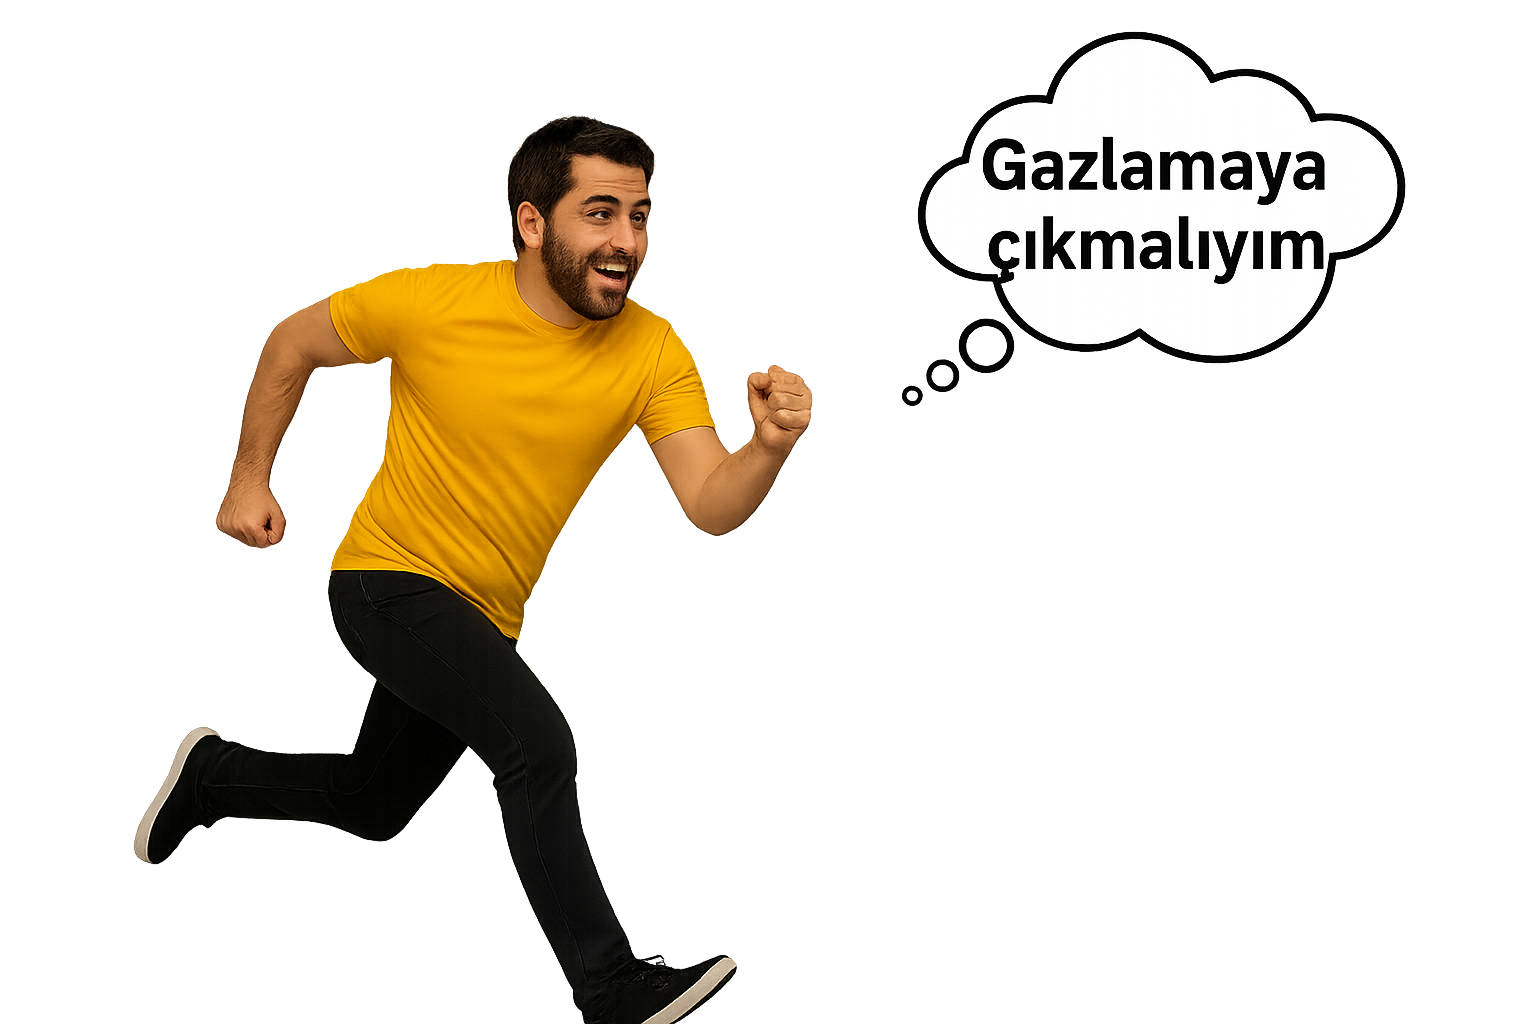
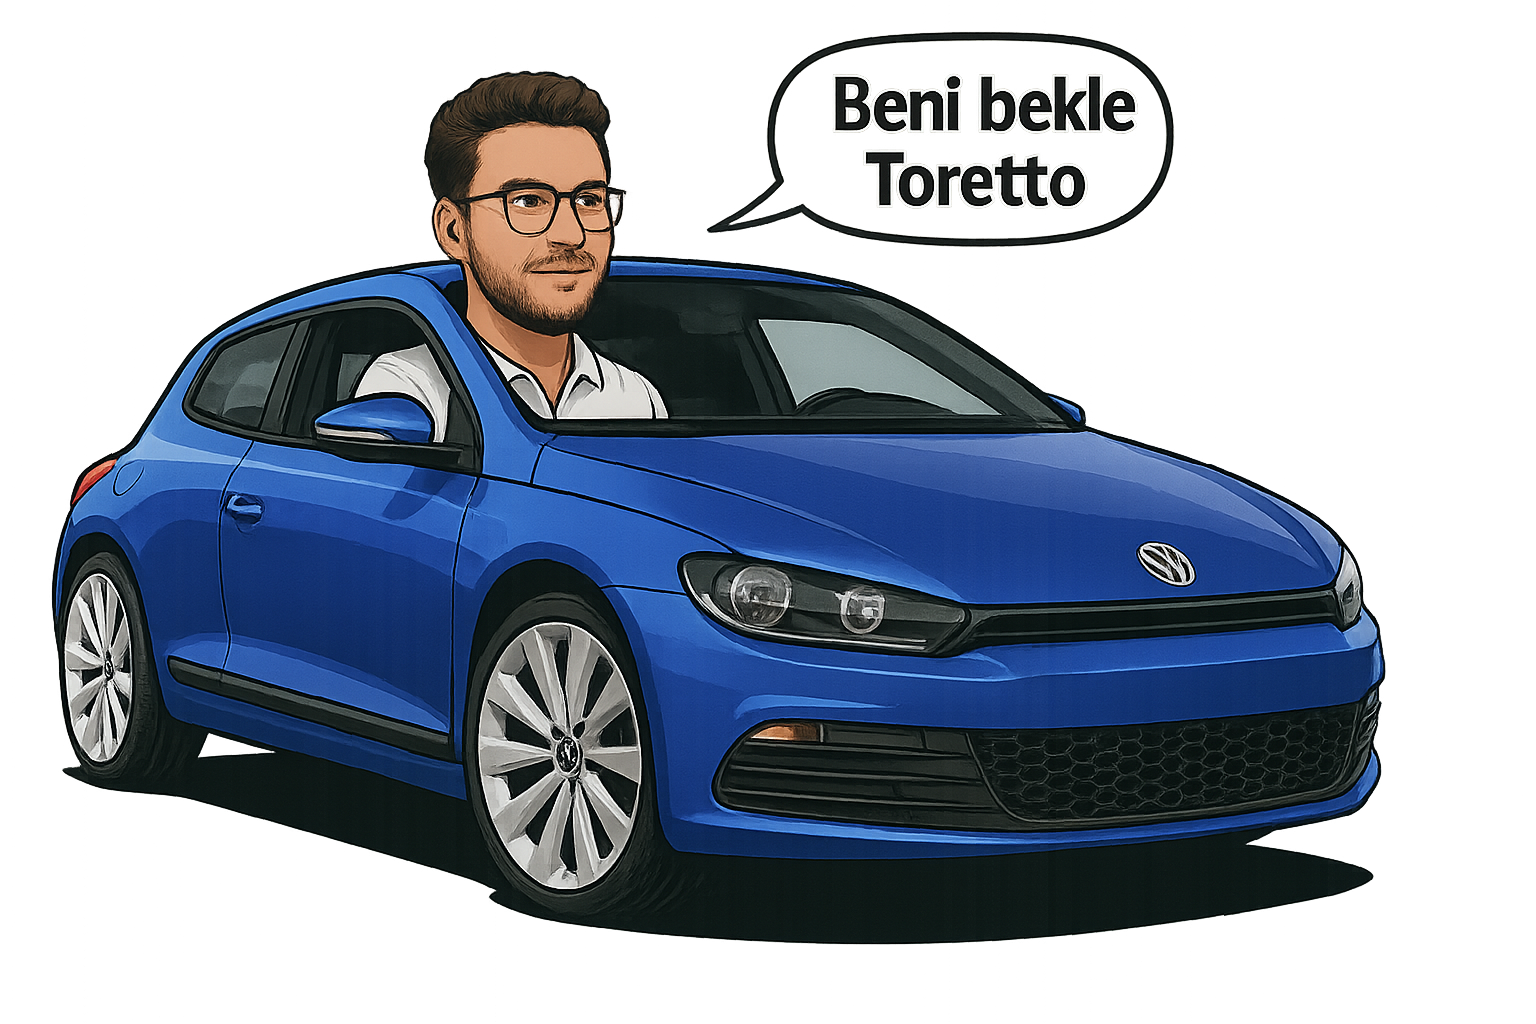
✨ Add character transitions and timing animations to FunnyPage
This update introduces a fully animated and interactive FunnyPage component, designed to deliver a humorous and engaging scene transition sequence using multiple characters.

🔧 Problem Solved:
- Burak and Kübra were previously moving in the wrong direction (right-to-left), instead of mimicking Furkan_Teacher3's left-to-right motion.
- Animation timing across characters was misaligned and overlapping at times.
- Previous updates inadvertently broke the initial button functionality and first animation.

✅ Solutions Applied:
- Introduced `characterPhase` state to handle sequential character phases.
- Defined separate animation classes for Burak and Kübra (`moveRightSlow`, `moveRightSlower`) to create slower transitions similar to Furkan_Teacher3.
- Adjusted CSS positions and keyframes to match the intended left-to-right animation flow.
- Preserved all initial logic: button interaction, Toretto cameo, blackout effect, and audio functionality remain untouched.

🎬 Timeline Flow:
1. Furkan_Teacher enters and exits
2. Blackout screen appears
3. Furkan_Teacher2 and Toretto scenes play
4. Furkan_Teacher3 slides out to the right
5. Burak enters with slower animation
6. Kübra enters with the slowest animation
7. Page navigates to /race after all animations complete

🛠 Technologies Used:
- React (`useState`, `useEffect`, `useRef`)
- CSS3 Animations with `@keyframes`
- React Router v6 for navigation
- HTML5 Audio for interactive sound
[…]

diff --git a/Week11Graduation-Project/src/pages/FunnyPage.tsx b/Week11Graduation-Project/src/pages/FunnyPage.tsx
@@ -1,4 +1,4 @@
-import React, { useRef, useState, useEffect } from "react";
+import React, { useEffect, useRef, useState } from "react";
 import { useNavigate } from "react-router-dom";
 import "../styles/pages/FunnyPage.css";
 
@@ -7,7 +7,10 @@ const FunnyPage = () => {
 
   const [startAnimation, setStartAnimation] = useState(false);
   const [blackout, setBlackout] = useState(false);
-  const [characterPhase, setCharacterPhase] = useState<"first" | "second" | "toretto" | "third">("first");
+  const [characterPhase, setCharacterPhase] = useState<
+    "first" | "second" | "toretto" | "third" | "burak" | "kubra"
+  >("first");
+
   const [showToretto, setShowToretto] = useState(false);
   const [startExitToretto, setStartExitToretto] = useState(false);
   const audioRef = useRef<HTMLAudioElement | null>(null);
@@ -15,9 +18,7 @@ const FunnyPage = () => {
 
   const handleStart = () => {
     setStartAnimation(true);
-    if (audioRef.current) {
-      audioRef.current.play();
-    }
+    audioRef.current?.play();
   };
 
   useEffect(() => {
@@ -30,23 +31,30 @@ const FunnyPage = () => {
         setBlackout(false);
         setCharacterPhase("second");
 
-        // Toretto sahnesi başlatılır
         setTimeout(() => {
           setShowToretto(true);
 
-          // 3 saniye sonra Toretto kaybolur ve karakter değişir
           setTimeout(() => {
             setStartExitToretto(true);
 
-            // Toretto çıkarken Furkan_Teacher3'e geçiş ve sağa kayma
             setTimeout(() => {
               setShowToretto(false);
               setCharacterPhase("third");
 
-              // Animasyonlar bittikten sonra yönlendirme
+              // Furkan_Teacher3 bitince Burak başlar
               setTimeout(() => {
-                navigate("/race"); // Doğru sayfa yolu "/race"
-              }, 1500); // Furkan_Teacher3 animasyonunun tamamlanma süresi
+                setCharacterPhase("burak");
+
+                // Burak bitince Kübra başlar
+                setTimeout(() => {
+                  setCharacterPhase("kubra");
+
+                  // Kübra bitince sayfa yönlendirmesi
+                  setTimeout(() => {
+                    navigate("/race");
+                  }, 4000); // Kübra çıkışı süresi
+                }, 4000); // Burak çıkışı süresi
+              }, 3500); // Furkan_Teacher3 çıkışı sonrası bekleme
             }, 1000);
           }, 3000);
         }, 2000);
@@ -58,15 +66,13 @@ const FunnyPage = () => {
     }
 
     return () => {
-      if (image) {
-        image.removeEventListener("transitionend", handleTransitionEnd);
-      }
+      image?.removeEventListener("transitionend", handleTransitionEnd);
     };
   }, [navigate]);
 
   return (
     <div className="funny-page light">
-      {blackout && <div className="blackout-screen"></div>}
+      {blackout && <div className="blackout-screen" />}
 
       <div className="intro-animation">
         {characterPhase === "first" && (
@@ -91,6 +97,22 @@ const FunnyPage = () => {
             src="/assets/images/Furkan_Teacher3.png"
             alt="Furkan Teacher 3"
             className="moving-image3"
+          />
+        )}
+
+        {characterPhase === "burak" && (
+          <img
+            src="/assets/images/Burak2.png"
+            alt="Burak"
+            className="burak-animation"
+          />
+        )}
+
+        {characterPhase === "kubra" && (
+          <img
+            src="/assets/images/Kubra.png"
+            alt="Kübra"
+            className="kubra-animation"
           />
         )}
 

diff --git a/Week11Graduation-Project/src/styles/pages/FunnyPage.css b/Week11Graduation-Project/src/styles/pages/FunnyPage.css
@@ -1,20 +1,16 @@
-/* 🔲 Sayfa genel yapısı */
 .funny-page {
   width: 100%;
   height: 100vh;
   overflow: hidden;
   position: relative;
   background-color: #ffffff;
-  color: white;
-}
-
-/* 🌞 Beyaz temada metin görünmesin (isteğe bağlı) */
-.funny-page.light {
-  background-color: #ffffff;
   color: #ffffff;
 }
 
-/* 🎬 Giriş animasyonu ve buton konumu */
+.funny-page.light {
+  background-color: #ffffff;
+}
+
 .intro-animation {
   display: flex;
   justify-content: center;
@@ -24,32 +20,101 @@
   position: relative;
 }
 
-/* 🚗 İlk karakter: Sağdan sola hareket eder */
+/* Başlangıç karakteri */
 .moving-image {
   position: absolute;
   right: -850px;
   top: 30%;
   width: 680px;
-  height: auto;
   transition: transform 10s ease-in-out;
   transform: translateX(0);
 }
 
-/* 🚀 Hareket başladığında sola kayar */
 .moving-image.animate {
   transform: translateX(-100vw);
 }
 
-/* 🎯 İkinci karakter: Solda sabit görünür */
+/* Sabit ikinci karakter */
 .moving-image2 {
   position: absolute;
   left: 0;
   top: 25%;
   width: 480px;
-  height: auto;
 }
 
-/* ⬛ 2 saniyelik ekran karartma efekti */
+/* Üçüncü karakter sağa çıkar */
+.moving-image3 {
+  position: absolute;
+  left: 0;
+  top: 40%;
+  width: 720px;
+  animation: moveRight 3.5s forwards;
+}
+
+/* ✅ Burak soldan sağa çıkar - daha yavaş */
+.burak-animation {
+  position: absolute;
+  left: 0;
+  top: 45%;
+  width: 700px;
+  animation: moveRightSlow 4.5s forwards;
+}
+
+/* ✅ Kübra soldan sağa çıkar - daha da yavaş */
+.kubra-animation {
+  position: absolute;
+  left: 0;
+  top: 28%;
+  width: 400px;
+  animation: moveRightSlower 6s forwards;
+}
+
+/* Ortak sağa hareket animasyonları */
+@keyframes moveRight {
+  0% {
+    transform: translateX(0);
+  }
+  100% {
+    transform: translateX(100vw);
+  }
+}
+
+@keyframes moveRightSlow {
+  0% {
+    transform: translateX(0);
+  }
+  100% {
+    transform: translateX(100vw);
+  }
+}
+
+@keyframes moveRightSlower {
+  0% {
+    transform: translateX(0);
+  }
+  100% {
+    transform: translateX(100vw);
+  }
+}
+
+/* Toretto hareketleri */
+.toretto-image {
+  position: absolute;
+  right: -150px;
+  top: 35%;
+  width: 480px;
+  transition: transform 1s ease-in-out;
+}
+
+.toretto-image.enter {
+  transform: translateX(-100px);
+}
+
+.toretto-image.exit {
+  transform: translateX(800px);
+}
+
+/* Ekran karartma */
 .blackout-screen {
   position: fixed;
   top: 0;
@@ -60,7 +125,7 @@
   z-index: 9999;
 }
 
-/* 🟣 Başlat butonu */
+/* Başlat butonu */
 .start-button {
   margin-top: 2rem;
   padding: 12px 24px;
@@ -75,50 +140,4 @@
 
 .start-button:hover {
   background-color: #ff2c9d;
-}
-/* Sabit ikinci karakter */
-.moving-image2 {
-  position: absolute;
-  left: 0;
-  top: 25%;
-  width: 480px;
-  height: auto;
-}
-
-/* Üçüncü karakter: sağa doğru kayar */
-.moving-image3 {
-  position: absolute;
-  left: 0;
-  top: 40%;
-  width: 720px;
-  height: auto;
-  animation: moveRight 5s forwards;
-}
-
-@keyframes moveRight {
-  0% {
-    transform: translateX(0);
-  }
-  100% {
-    transform: translateX(100vw);
-  }
-}
-
-/* Toretto giriş-çıkış */
-.toretto-image {
-  position: absolute;
-  right: -150px;
-  top: 35%;
-  width: 480px;
-  height: auto;
-  z-index: 10;
-  transition: transform 1s ease-in-out;
-}
-
-.toretto-image.enter {
-  transform: translateX(-100px);
-}
-
-.toretto-image.exit {
-  transform: translateX(800px);
 }
